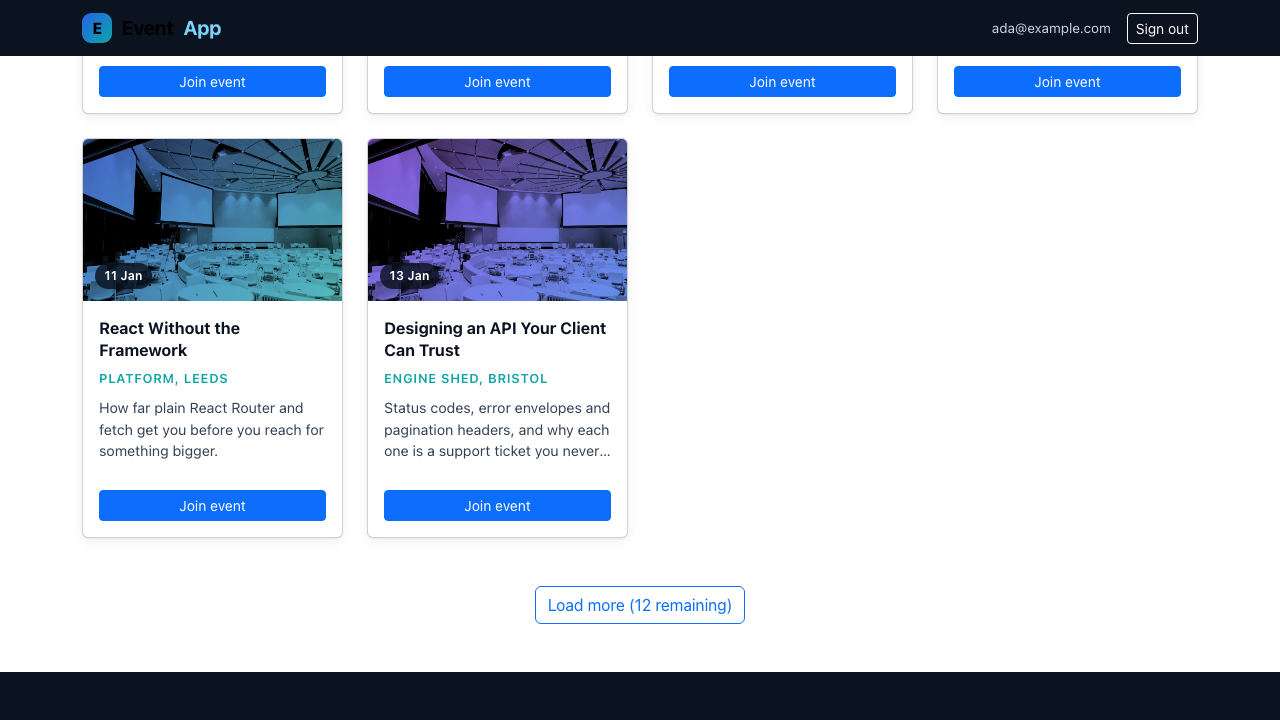
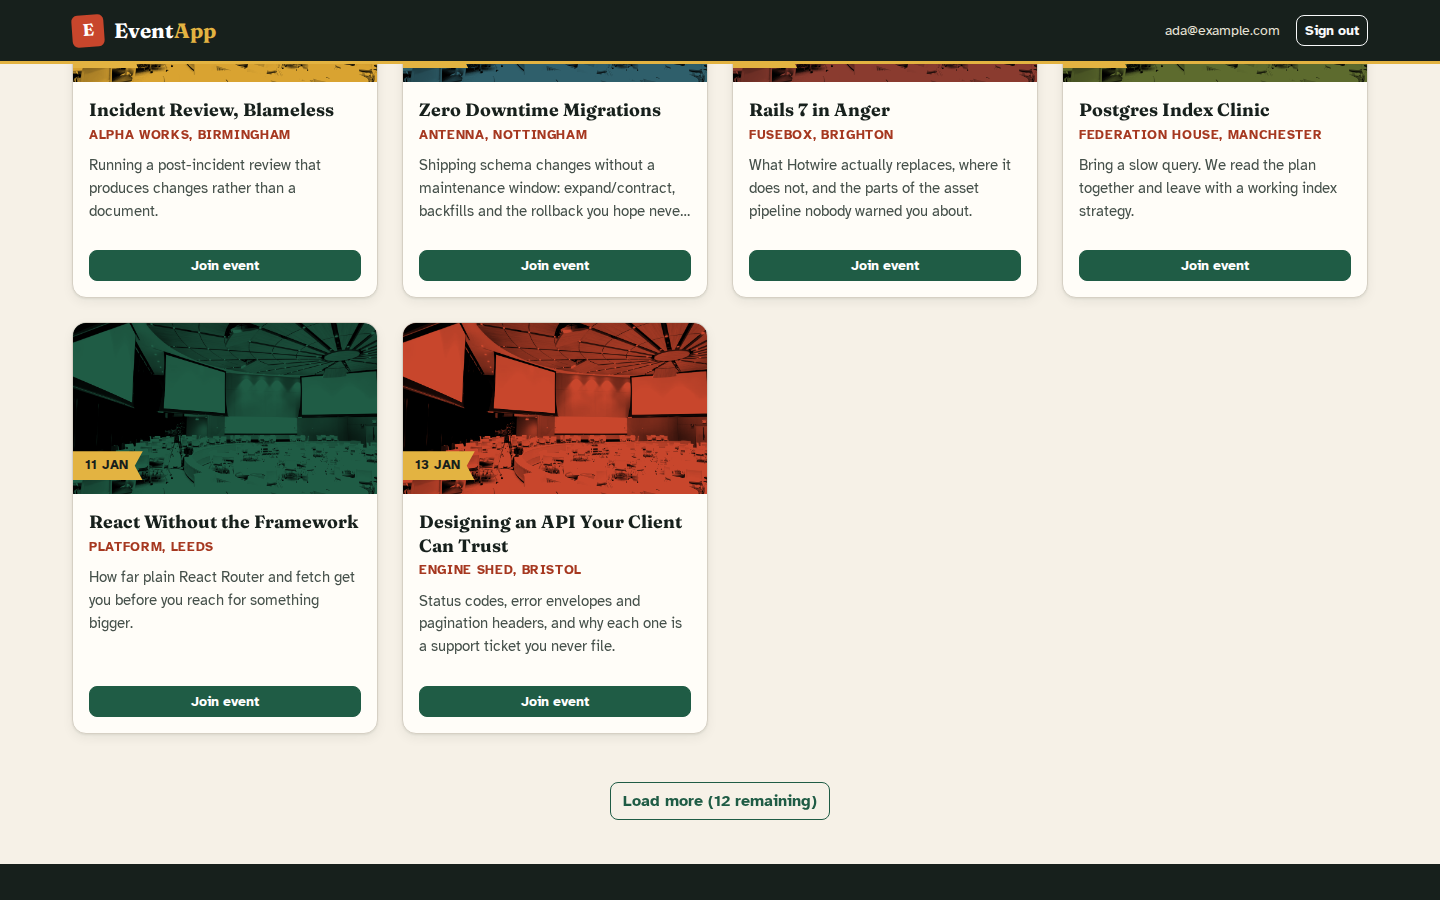
Refresh README, screenshots and transcript for the Vite build
The README now documents Vite, VITE_API_URL, Node 22, the Docker
Compose path that was verified running, the load-more and expired-token
behaviour, and 68 tests. Screenshots are recaptured at 1440x900 (the
device preset had been overriding the viewport to 1280x720) plus two at
phone width. The CRA dev-server transcript is replaced by one captured
against the Compose stack, and an MIT LICENSE is added.

diff --git a/e2e/screenshots.spec.js b/e2e/screenshots.spec.js
@@ -81,3 +81,21 @@ test.describe('README screenshots', () => {
     await page.screenshot({ path: path.join(SHOTS, '06-sign-in.png') });
   });
 });
+
+test.describe('README screenshots, phone width', () => {
+  test.use({ viewport: { width: 390, height: 844 }, isMobile: true, hasTouch: true });
+
+  test('dashboard on a phone', async ({ page }) => {
+    await signIn(page);
+    await page.waitForTimeout(500);
+    await page.screenshot({ path: path.join(SHOTS, '07-mobile-dashboard.png') });
+  });
+
+  test('event detail on a phone', async ({ page }) => {
+    await signIn(page);
+    await page.goto('/events/1');
+    await expect(page.getByRole('heading', { level: 1 })).toBeVisible();
+    await page.waitForTimeout(300);
+    await page.screenshot({ path: path.join(SHOTS, '08-mobile-event-detail.png') });
+  });
+});

diff --git a/e2e/playwright.config.js b/e2e/playwright.config.js
@@ -16,10 +16,12 @@ module.exports = defineConfig({
   outputDir: '../.playwright',
   reporter: [['list']],
   use: {
+    // The device preset goes first: it carries its own 1280x720 viewport,
+    // which would otherwise replace the one below.
+    ...devices['Desktop Chrome'],
     baseURL: `http://127.0.0.1:${APP_PORT}`,
     viewport: { width: 1440, height: 900 },
     deviceScaleFactor: 1,
-    ...devices['Desktop Chrome'],
   },
   webServer: [
     {

diff --git a/README.md b/README.md
@@ -8,12 +8,12 @@ No database here and nothing server-rendered: this repo is one bundle that talks
 eleven JSON endpoints and stores a bearer token. Almost every decision below follows
 from one detail of that API — **the token arrives in a response header, not the body.**
 
-## The six screens
+## The screens
 
-Real renders at 1280×720, produced by `npm run screenshots` — Playwright drives the
-production bundle against the in-repo mock API, so the data is the seed fixture, not
-a mock-up. The "Load more (12 remaining)" button in the third shot is the whole
-pagination story in one control.
+Real renders at 1440×900 and at phone width (390×844), produced by
+`npm run screenshots`: Playwright drives the production bundle against the in-repo
+mock API, so the data is the seed fixture, not a mock-up. The "Load more (12
+remaining)" button in the third shot is the whole pagination story in one control.
 
 |                                                                                                    |                                                                            |
 | -------------------------------------------------------------------------------------------------- | -------------------------------------------------------------------------- |
@@ -21,18 +21,36 @@ pagination story in one control.
 | **A capped list, honest about the remainder**<br>![Pagination](docs/screenshots/03-pagination.png) | **Event detail**<br>![Event detail](docs/screenshots/04-event-detail.png)  |
 | **Creating an event**<br>![Create event](docs/screenshots/05-create-event.png)                     | **Signing in**<br>![Sign in](docs/screenshots/06-sign-in.png)              |
 
+<p>
+  <img src="docs/screenshots/07-mobile-dashboard.png" alt="Dashboard at phone width" width="260" />
+  &nbsp;
+  <img src="docs/screenshots/08-mobile-event-detail.png" alt="Event detail at phone width" width="260" />
+</p>
+
+The look is a community noticeboard: warm paper, ink, a deep green for actions,
+vermilion and mustard for what should catch the eye, Fraunces for headings and
+Atkinson Hyperlegible for body text. Every card reuses the one stock photograph,
+tinted from the event id so a grid stays readable.
+
 ## Run it
 
-Two terminals. No database, no Docker, no Rails.
+Node 22 (see `.nvmrc`). Two terminals; no database, no Docker, no Rails.
 
 ```bash
-npm install
+npm ci
 npm run mock-api          # terminal 1 — stand-in API on :8681
 npm start                 # terminal 2 — the app on :8680
 ```
 
 Open <http://localhost:8680> and sign in as `ada@example.com`. The mock accepts any
 non-empty password — it checks that the fields are present, nothing more.
+
+Or the whole thing in containers, built exactly as it would ship (nginx serving the
+bundle and proxying the API to the stand-in):
+
+```bash
+docker compose --profile mock up --build      # http://localhost:8680
+```
 
 Against the real Rails API instead:
 
@@ -112,13 +130,23 @@ stateDiagram-v2
   end note
 ```
 
-Those four states are `EventSection.js`, written once: skeleton cards, an error with
+Those four states are `EventSection.jsx`, written once: skeleton cards, an error with
 a working retry, an honest empty message, or rows plus the remainder button. The
 `append` flag on `COLLECTION_LOADED` is how "Load more" grows a list without
 refetching page one — `eventReducer.test.js` pins it, along with the transition that
 moves a joined event out of _joinable_ and into _joined_ in a single step. (The
 screenshot's arithmetic: the seed fixture holds 62 joinable events, so a 50-row first
 page leaves the 12 the button offers.)
+
+Page numbers are offsets on the server, so a local change moves them: join one event
+from page one and every later row slides up a place. "Load more" therefore asks for
+the page that follows from the number of rows already on screen, not "last page + 1",
+and an appended page drops ids that are already listed. Without that, joining an
+event and then loading more silently skipped one, and creating one repeated a row.
+
+A `401` from any call clears the stored token **and** signs the UI out: the axios
+client publishes "session expired", `EventProvider` dispatches `SIGN_OUT`, and
+`ProtectedRoute` sends the user back to the sign-in form.
 
 ## Which buttons appear, and why
 
@@ -128,7 +156,7 @@ than guessing:
 
 - `isOrganizedBy(event, user)` compares `event.organizer_id` with the signed-in
   user's id and **fails closed** when either is missing. Edit and delete hang off
-  that, not off which list drew the card. `EventCard.test.js` includes _"hides the
+  that, not off which list drew the card. `EventCard.test.jsx` includes _"hides the
   controls when the identity is unknown, rather than assuming ownership"_.
 - "Join event" is offered only on a card marked joinable that the user does not
   organize. If the server refuses anyway, `describeApiError` unwraps whichever
@@ -136,70 +164,75 @@ than guessing:
   for the duplicate-booking `422`, and Devise's bare `{status: [...]}` from
   `/signup` — and the message goes into a toast.
 - `ProtectedRoute` renders a `<Navigate>` rather than calling `navigate()` from an
-  effect, so an anonymous visitor fires **zero** API requests, per `App.test.js`.
+  effect, so an anonymous visitor fires **zero** API requests, per `App.test.jsx`.
 
 There is **no capacity or waitlist anywhere in this client**, because the API has no
 seat-count column. Nothing here can tell you an event is full.
 
 ## Settings
 
-Create React App substitutes `REACT_APP_*` at **build** time, so changing one means
-rebuilding, not restarting. Copy `.env.example` to `.env.local`.
+Vite substitutes `VITE_*` at **build** time, so changing one means rebuilding, not
+restarting. Copy `.env.example` to `.env.local`.
 
-| Name                 | Default                 | Purpose                                                                                               |
-| -------------------- | ----------------------- | ----------------------------------------------------------------------------------------------------- |
-| `REACT_APP_API_URL`  | `''` (same origin)      | Only needed for a cross-origin API, which then also needs CORS and the exposed `Authorization` header |
-| `PORT`               | `8680`                  | Dev server. Not `3000` — that is the Rails API's                                                      |
-| `API_PROXY_TARGET`   | `http://localhost:8681` | Where `src/setupProxy.js` forwards API calls in development                                           |
-| `MOCK_API_PORT`      | `8681`                  | Port for `npm run mock-api`                                                                           |
-| `SCREENSHOT_PORT`    | `8680`                  | Port `tools/serve-build.js` uses during a screenshot run                                              |
-| `WEB_PORT`           | `8680`                  | Host port published by `docker-compose.yml`                                                           |
-| `GENERATE_SOURCEMAP` | `true`                  | CRA flag. The Dockerfile sets it `false`                                                              |
+| Name               | Default                 | Purpose                                                                                               |
+| ------------------ | ----------------------- | ----------------------------------------------------------------------------------------------------- |
+| `VITE_API_URL`     | `''` (same origin)      | Only needed for a cross-origin API, which then also needs CORS and the exposed `Authorization` header |
+| `PORT`             | `8680`                  | Dev server. Not `3000`, which is the Rails API's                                                      |
+| `API_PROXY_TARGET` | `http://localhost:8681` | Where the dev server's proxy (`vite.config.mjs`) forwards API calls                                   |
+| `MOCK_API_PORT`    | `8681`                  | Port for `npm run mock-api`                                                                           |
+| `SCREENSHOT_PORT`  | `8680`                  | Port `tools/serve-build.js` uses during a screenshot run                                              |
+| `WEB_PORT`         | `8680`                  | Host port published by `docker-compose.yml`                                                           |
 
 ## Commands
 
 ```bash
-npm start            # dev server + API proxy
-npm run test:ci      # the suite, once, non-interactive
-npm run coverage     # …with a coverage report
-npm run lint         # ESLint (react-app rules + Prettier, as errors)
+npm start            # Vite dev server + API proxy
+npm test             # Vitest, once
+npm run test:watch   # Vitest in watch mode
+npm run lint         # ESLint (react, hooks, jsx-a11y, Prettier as errors)
 npm run format:check # Prettier, read-only
 npm run build        # production bundle into build/
+npm run preview      # serve build/ locally
 npm run mock-api     # the stand-in API
 npm run screenshots  # rebuild the images above (run `npm run build` first)
 ```
 
-`npm run build` on the current tree produces an entry bundle of roughly **117 kB
-gzipped**, plus a **47 kB** chunk holding the date-picker-heavy event form, which is
-fetched only when the modal opens. `EventDetails` and `SignUp` are split out the same
-way, since both are reached by a click.
+`npm run build` produces an entry bundle of roughly **100 kB gzipped** plus a
+**45 kB** chunk holding the date-picker-heavy event form, which is fetched only when
+the modal opens. `EventDetails` and `SignUp` are split out the same way, since both
+are reached by a click.
 
-A real curl transcript of the dev server — a sign-in returning the header, a 50-row
-page declaring `x-total-count: 62`, a `404`, a cross-user `403`, a logout and a
-tokenless `401` — is in
-[`docs/captured/dev-session.txt`](docs/captured/dev-session.txt).
+A real curl transcript against the Docker Compose stack (nginx in front, mock API
+behind): a sign-in returning the header, the second page of a list declaring
+`X-Total-Count: 62`, a cross-user `403`, a tokenless `401`, and the caching and
+security headers nginx adds. It is in
+[`docs/captured/compose-session.txt`](docs/captured/compose-session.txt).
 
 ## Where the code lives
 
 ```
 src/services/       nothing below this line imports React
-  api.js            axios instance, the two interceptors, error envelopes
+  api.js            axios instance, the two interceptors, error envelopes,
+                    the "session expired" signal
   tokenStore.js     the session seam (localStorage | memory)
   eventService.js   every endpoint, parseListResponse, isOrganizedBy
+  notify.js         toast publisher; components/Toaster.jsx renders it
 src/context/        EventContext provider + the pure eventReducer
 src/hooks/          useEventCollection — loads and pages one collection
 src/components/     EventSection (the four states), EventCard (ownership
                     gating), EventForm (lazy), ProtectedRoute, auth screens
-src/layouts/Home.js the signed-in dashboard, three sections
+src/layouts/Home.jsx the signed-in dashboard, three sections
 src/testing/        test helpers and the shared seed fixture
 tools/mock-api.js   stand-in API for dev, demo and screenshots
 e2e/                Playwright screenshot capture
 docker/nginx.conf   runtime server and reverse proxy
+vite.config.mjs     build, dev proxy and Vitest settings
 ```
 
 ## What the tests hold down
 
-`npm run test:ci` → **52 tests across 9 suites, all passing** (run on this tree).
+`npm test` → **68 tests across 13 files, all passing** (Vitest + Testing Library on
+jsdom, run on this tree).
 Every test mocks at the axios adapter on the app's _own_ instance, so the real
 request and response interceptors execute; nothing reaches the network and nothing
 needs Rails.
@@ -213,25 +246,27 @@ Two test names carry their own history, which is worth more than a claim in pros
 
 The rest: token attached verbatim and withheld from `/login`, the `401` sweep, all
 three error envelopes, pagination parsing including the header-less fallback, the
-reducer's transitions, ownership gating, the four list states, `404` versus `500` on
-the detail page, and a full sign-in → dashboard → sign-out drive in `App.test.js`.
+reducer's transitions, ownership gating, the four list states, "Load more" after a
+join, `404` versus `500` on the detail page, the event form's create/edit/error paths,
+sign-up validation, storage that throws, toasts, and full sign-in → dashboard →
+sign-out and expired-token drives in `App.test.jsx`.
 
 ## Shipping it
 
 ```bash
-docker compose build
-docker compose --profile mock up     # app + the stand-in API
+docker compose --profile mock up --build     # app + the stand-in API
 ```
 
-Multi-stage image (Node build → nginx runtime), unprivileged user, `HEALTHCHECK` on
-`/healthz`, and an nginx config that serves the SPA and proxies the API so the
-browser sees one origin.
+Multi-stage image (Node 22 build, nginx 1.30 runtime), unprivileged user, a
+`HEALTHCHECK` on `/healthz`, and an nginx config that serves the SPA and proxies the
+API so the browser sees one origin. Without `--profile mock` the `web` service expects
+the Rails API on the `api` hostname of a shared network.
 
-**None of it has been run.** `docker compose config` parses cleanly and that is the
-entire verification. This repo's own build report records, verbatim:
-
-> - **Build verified: NOT RUN — deferred, Docker off**
-> - **Boot verified: NOT RUN — deferred, Docker off**
+Running it for the first time turned up three bugs that a parse-only check could
+not: nginx as the unprivileged user could not write its pid file, a location that set
+`Cache-Control` silently dropped the security headers, and a `HEAD /login` was
+proxied to the API instead of serving the app. All three are fixed, and the stack
+comes up healthy.
 
 ## Known gaps
 
@@ -245,5 +280,9 @@ entire verification. This repo's own build report records, verbatim:
 - **One stock photograph.** Cards are tinted deterministically from the event id so a
   grid is readable. There is no per-event image upload.
 - **No capacity, and no way to add one from here.** See above.
-- **CRA is the build tool**, with `react-scripts` at 5.0.1. It is unmaintained
-  upstream; Vite is the honest next step and a bigger change than this repo has had.
+- **`e2e/` captures screenshots; it asserts very little.** Behaviour is pinned by the
+  unit suite, which mocks at the axios adapter, so nothing here runs against Rails.
+
+## License
+
+MIT, see [LICENSE](LICENSE).
